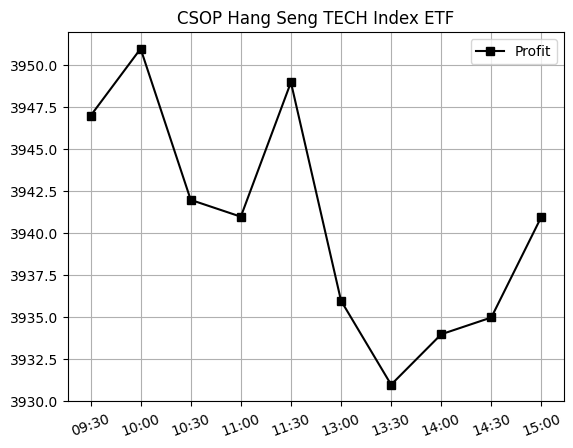
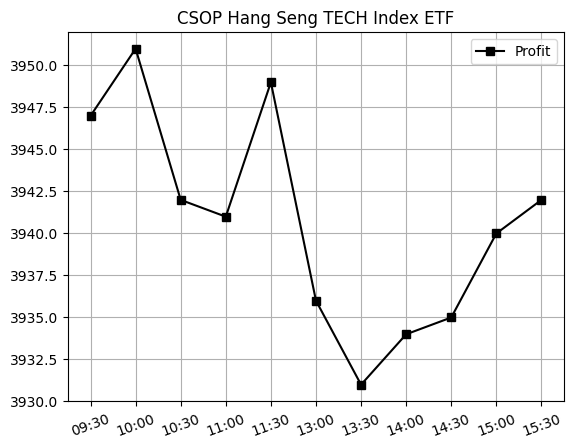
up

diff --git a/update.py b/update.py
@@ -116,10 +116,16 @@ with open(index_md, "w+") as f_index_md:
 
                 os.chdir("../")
 
+                def write_profit_table(stock_data):
+                    hist = stock_data['hist']
+                    profit_table = hist['Profit'].reset_index().to_html()
+                    summary_md_f.write(f"|{profit_table}")
+
                 def write_stock(stock_data):
                     write_img(summary_md_f, img_dir.joinpath(stock_data['img_price_dir']), "price: "+stock_data['longname'])
                     summary_md_f.write('|')
                     write_img(summary_md_f, img_dir.joinpath(stock_data['img_profit_dir']), "profit: "+stock_data['longname'])
+                    write_profit_table(stock_data)
 
                 summary_md_f.write(f"## {name}:\n#### {stock_1m['longname']}\n")
                 summary_md_f.write('|price|profit|data|\n|:---:|:---:|:---:|\n|')

diff --git a/record/list_1/summary.md b/record/list_1/summary.md
@@ -2,13 +2,233 @@
 #### CSOP Hang Seng TECH Index ETF
 |price|profit|data|
 |:---:|:---:|:---:|
-|![price: CSOP Hang Seng TECH Index ETF](image/3033.HK_1d-30m.png)|![profit: CSOP Hang Seng TECH Index ETF](image/3033.HK_1d-30m_profit.png)|
-|![price: CSOP Hang Seng TECH Index ETF](image/3033.HK_7d-1d.png)|![profit: CSOP Hang Seng TECH Index ETF](image/3033.HK_7d-1d_profit.png)|
+|![price: CSOP Hang Seng TECH Index ETF](image/3033.HK_1d-30m.png)|![profit: CSOP Hang Seng TECH Index ETF](image/3033.HK_1d-30m_profit.png)|<table border="1" class="dataframe">
+  <thead>
+    <tr style="text-align: right;">
+      <th></th>
+      <th>Datetime</th>
+      <th>Profit</th>
+    </tr>
+  </thead>
+  <tbody>
+    <tr>
+      <th>0</th>
+      <td>09:30</td>
+      <td>3947.000027</td>
+    </tr>
+    <tr>
+      <th>1</th>
+      <td>10:00</td>
+      <td>3950.999975</td>
+    </tr>
+    <tr>
+      <th>2</th>
+      <td>10:30</td>
+      <td>3941.999912</td>
+    </tr>
+    <tr>
+      <th>3</th>
+      <td>11:00</td>
+      <td>3940.999985</td>
+    </tr>
+    <tr>
+      <th>4</th>
+      <td>11:30</td>
+      <td>3948.999882</td>
+    </tr>
+    <tr>
+      <th>5</th>
+      <td>13:00</td>
+      <td>3936.000109</td>
+    </tr>
+    <tr>
+      <th>6</th>
+      <td>13:30</td>
+      <td>3930.999994</td>
+    </tr>
+    <tr>
+      <th>7</th>
+      <td>14:00</td>
+      <td>3934.000015</td>
+    </tr>
+    <tr>
+      <th>8</th>
+      <td>14:30</td>
+      <td>3934.999943</td>
+    </tr>
+    <tr>
+      <th>9</th>
+      <td>15:00</td>
+      <td>3940.000057</td>
+    </tr>
+    <tr>
+      <th>10</th>
+      <td>15:30</td>
+      <td>3941.999912</td>
+    </tr>
+  </tbody>
+</table>|
+|![price: CSOP Hang Seng TECH Index ETF](image/3033.HK_7d-1d.png)|![profit: CSOP Hang Seng TECH Index ETF](image/3033.HK_7d-1d_profit.png)|<table border="1" class="dataframe">
+  <thead>
+    <tr style="text-align: right;">
+      <th></th>
+      <th>Date</th>
+      <th>Profit</th>
+    </tr>
+  </thead>
+  <tbody>
+    <tr>
+      <th>0</th>
+      <td>02/24/23</td>
+      <td>4026.999950</td>
+    </tr>
+    <tr>
+      <th>1</th>
+      <td>02/27/23</td>
+      <td>4044.999957</td>
+    </tr>
+    <tr>
+      <th>2</th>
+      <td>02/28/23</td>
+      <td>4070.000052</td>
+    </tr>
+    <tr>
+      <th>3</th>
+      <td>03/01/23</td>
+      <td>3938.999891</td>
+    </tr>
+    <tr>
+      <th>4</th>
+      <td>03/02/23</td>
+      <td>3967.000008</td>
+    </tr>
+    <tr>
+      <th>5</th>
+      <td>03/03/23</td>
+      <td>3924.999952</td>
+    </tr>
+    <tr>
+      <th>6</th>
+      <td>03/06/23</td>
+      <td>3941.999912</td>
+    </tr>
+  </tbody>
+</table>|
 ---
 ## 0001.HK:
 #### CK Hutchison Holdings Limited
 |price|profit|data|
 |:---:|:---:|:---:|
-|![price: CK Hutchison Holdings Limited](image/0001.HK_1d-30m.png)|![profit: CK Hutchison Holdings Limited](image/0001.HK_1d-30m_profit.png)|
-|![price: CK Hutchison Holdings Limited](image/0001.HK_7d-1d.png)|![profit: CK Hutchison Holdings Limited](image/0001.HK_7d-1d_profit.png)|
+|![price: CK Hutchison Holdings Limited](image/0001.HK_1d-30m.png)|![profit: CK Hutchison Holdings Limited](image/0001.HK_1d-30m_profit.png)|<table border="1" class="dataframe">
+  <thead>
+    <tr style="text-align: right;">
+      <th></th>
+      <th>Datetime</th>
+      <th>Profit</th>
+    </tr>
+  </thead>
+  <tbody>
+    <tr>
+      <th>0</th>
+      <td>09:30</td>
+      <td>-18299.999237</td>
+    </tr>
+    <tr>
+      <th>1</th>
+      <td>10:00</td>
+      <td>-18299.999237</td>
+    </tr>
+    <tr>
+      <th>2</th>
+      <td>10:30</td>
+      <td>-18350.000381</td>
+    </tr>
+    <tr>
+      <th>3</th>
+      <td>11:00</td>
+      <td>-18350.000381</td>
+    </tr>
+    <tr>
+      <th>4</th>
+      <td>11:30</td>
+      <td>-18399.999619</td>
+    </tr>
+    <tr>
+      <th>5</th>
+      <td>13:00</td>
+      <td>-18450.000763</td>
+    </tr>
+    <tr>
+      <th>6</th>
+      <td>13:30</td>
+      <td>-18475.000381</td>
+    </tr>
+    <tr>
+      <th>7</th>
+      <td>14:00</td>
+      <td>-18500.000000</td>
+    </tr>
+    <tr>
+      <th>8</th>
+      <td>14:30</td>
+      <td>-18475.000381</td>
+    </tr>
+    <tr>
+      <th>9</th>
+      <td>15:00</td>
+      <td>-18399.999619</td>
+    </tr>
+    <tr>
+      <th>10</th>
+      <td>15:30</td>
+      <td>-18350.000381</td>
+    </tr>
+  </tbody>
+</table>|
+|![price: CK Hutchison Holdings Limited](image/0001.HK_7d-1d.png)|![profit: CK Hutchison Holdings Limited](image/0001.HK_7d-1d_profit.png)|<table border="1" class="dataframe">
+  <thead>
+    <tr style="text-align: right;">
+      <th></th>
+      <th>Date</th>
+      <th>Profit</th>
+    </tr>
+  </thead>
+  <tbody>
+    <tr>
+      <th>0</th>
+      <td>02/24/23</td>
+      <td>-17774.999619</td>
+    </tr>
+    <tr>
+      <th>1</th>
+      <td>02/27/23</td>
+      <td>-17575.000763</td>
+    </tr>
+    <tr>
+      <th>2</th>
+      <td>02/28/23</td>
+      <td>-17399.999619</td>
+    </tr>
+    <tr>
+      <th>3</th>
+      <td>03/01/23</td>
+      <td>-17850.000381</td>
+    </tr>
+    <tr>
+      <th>4</th>
+      <td>03/02/23</td>
+      <td>-18049.999237</td>
+    </tr>
+    <tr>
+      <th>5</th>
+      <td>03/03/23</td>
+      <td>-18024.999619</td>
+    </tr>
+    <tr>
+      <th>6</th>
+      <td>03/06/23</td>
+      <td>-18350.000381</td>
+    </tr>
+  </tbody>
+</table>|
 ---
